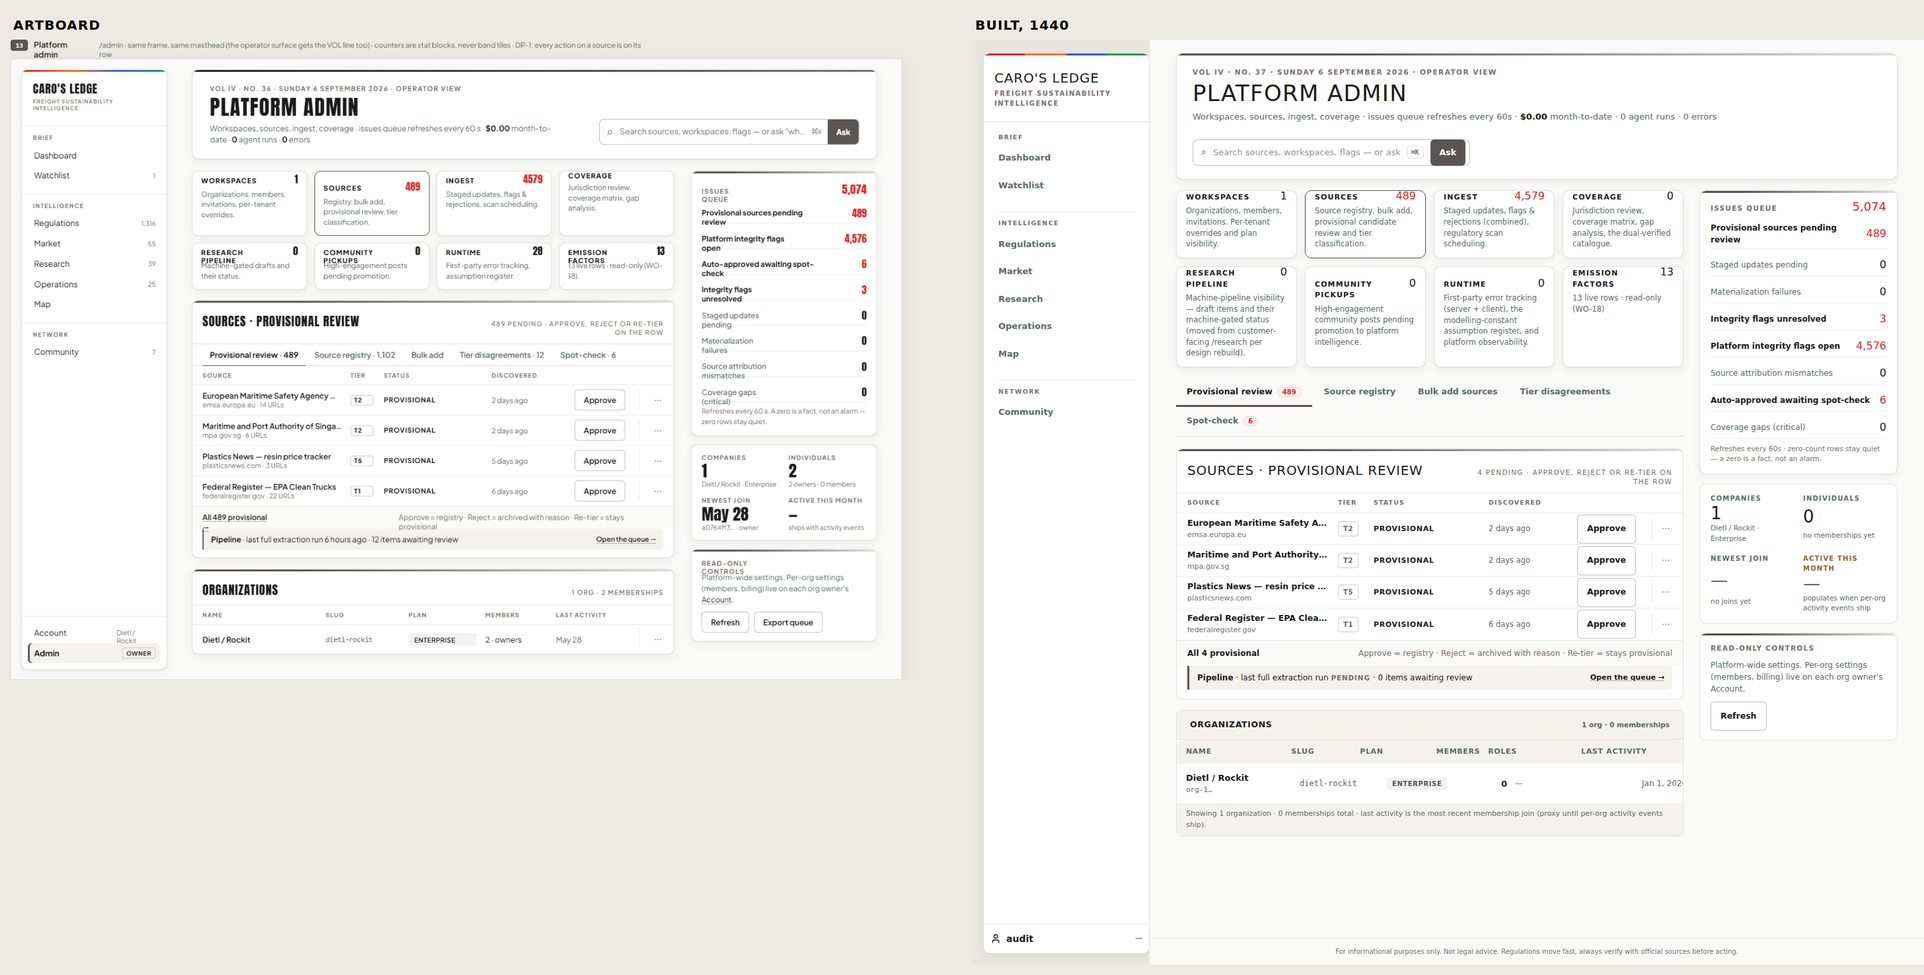
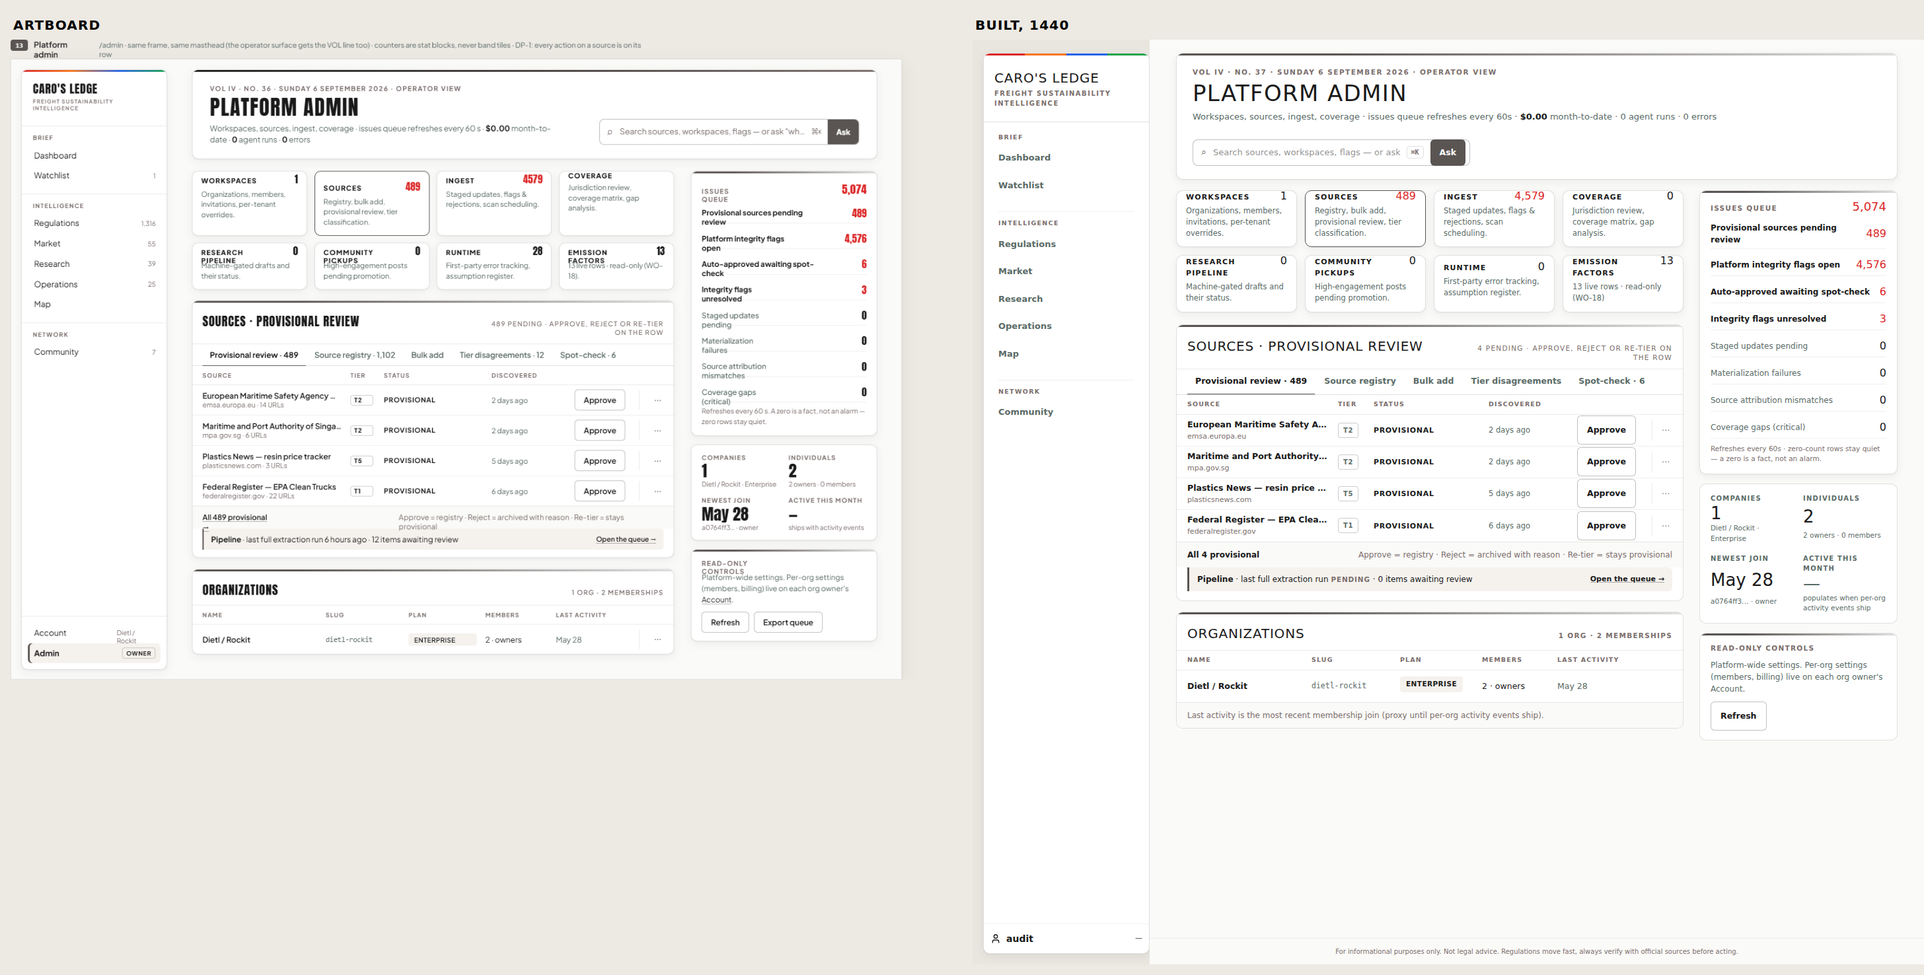
docs(admin60): side-by-sides, DEVIATION-LOG and session-log for artboards 13 and 14
Regenerated compose-13-admin.png and compose-14-account.png from this
lane's code and read both against their artboards. DEVIATION-LOG gains one
section carrying every decision and the data path checked behind it;
session-log gains the before/after region tables, the harness defect, the
gate lines and the UX compliance block.

Claude-Session: https://claude.ai/code/session_011PrexRRmd9zJ3cBeMDJw94
(cherry picked from commit e3f69dd1b1d16882ad0ba968db3ed14513dfb246)
(cherry picked from commit cee4a1bc298c5ffd6118958374bf6cd62e8a3118)

diff --git a/docs/design/handoff-2026-09-06/DEVIATION-LOG.md b/docs/design/handoff-2026-09-06/DEVIATION-LOG.md
@@ -354,3 +354,29 @@ logged here as a data-driven or deferred difference with the data path that was 
 | 2026-09-08 | Gate repaired - F36 no longer flags a TIMEZONE LOOKUP as an unpinned date format | [CONFIRMED, negative-tested this session] dc.html p15's time field reads "08:00 · Europe/London": the zone is the reader's own, which only the browser knows, so `BriefingScheduleSection` resolves it after mount with `Intl.DateTimeFormat().resolvedOptions().timeZone`. F36's regex matched `Intl.DateTimeFormat(` and reported it as an unpinned format call. It is not one: it returns an IANA zone NAME, produces no date string, and pinning `timeZone` on it would make it echo the pinned value back and destroy its only purpose. Fixed in the rule, narrowly (the very next token after the call must be `.resolvedOptions(`), with the attack in `F36-date-format-timezone-pin.test.mjs`: a real formatter, a formatter built then queried later, and both `toLocale*` calls must all still be caught. NOT added to `PRE_EXISTING_ALLOWLIST` - an allowlist entry would have been a claim of pre-existing debt about code written this session. | CLAUDE.md rule 15 (a guard is proven by attack); the gate was wrong, not the code. | lane settings60, 2026-09-08 |
 | 2026-09-08 | Settings (15) - 'Action' disclosed as known-safe in the settings smoke spec | The Alert bands control renders `BAND_ORDER`'s literal "Action", an exact-text collision with `HEADER_LITERALS`' §3 action-COLUMN word, so the rendering guard's placeholder-literal scan flagged it. Disclosed via `assertGuardClean`'s existing `known` parameter - the same carve-out `dashboard-brief-smoke.mjs`, `regulations-rows-smoke.mjs` and `map-smoke.mjs` already make for the identical word. Not a fabricated or omitted value. | Existing disclosed-carve-out convention (guard-assert.mjs's own header). | lane settings60, 2026-09-08 |
 | 2026-09-08 | Settings (15) - remaining artboard differences, all data-driven, none fixable without inventing | Listed for completeness after the side-by-side read: the collapsed twelve sector chips are the app's own first twelve rather than the artboard's twelve sample labels (fixture/corpus); the Save schedule button renders disabled until the form is dirty where the artboard draws it filled (state, not geometry); the time field shows the browser's own locale rendering ("08:00 AM" plus its clock glyph) and the sandbox's zone (UTC) where the artboard shows "08:00 · Europe/London"; the merged Account tab row still carries no live counts (Members · 2 / Sector profile · 6 / Jurisdictions · 30), the open item logged by lane compose-other on 2026-09-08 and still needing a shared count-fetch both /profile and /settings call. | Data and state, not composition. | lane settings60, 2026-09-08 - next: the tab-row counts remain the one named open item on this page. |
+
+## lane admin60, 2026-09-08, artboards 13 (/admin) and 14 (/account)
+
+Closes the eight differences Addendum 86 postscript 14 listed against these two artboards. Every row
+below is [CONFIRMED, measured this session] against the artboard PNG and dc.html p13/p14, and every
+one has a compose-spec row so the design audit measures it from now on.
+
+| Date | Page | Deviation | Reason | Who ruled |
+|---|---|---|---|---|
+| 2026-09-08 | Admin (13), sub-tab row | [CONFIRMED] The Sources sub-tab row now sits INSIDE the "SOURCES · PROVISIONAL REVIEW" card head, on ONE line at 1440 (measured: the row is 38.75px, one line of 12.5px tabs), as dc.html p13 draws it. Shared `TabRow` gained two additive props: `placement="card-head"` (gap 2, the card's own 16px inset, `flex-wrap: nowrap`) and `semantics="tablist"` (role=tablist / role=tab / aria-selected, the semantics the Admin sub-nav always had). The page passes that ONE row into `ProvisionalReviewTable`'s new `headTabs` slot when the provisional card is the section body, and renders no row above the card in that state; every other section, which has no artboard, keeps the page-level row. Counts render as the artboard's inline "· N" text, not the red pill the build used to draw, which is also what makes the five tabs fit one line. The tab "Bulk add sources" is renamed to the artboard's "Bulk add". | The artboard is the spec, and it wraps nothing at 1440. Extending the shared part additively rather than forking a second tab row. | lane admin60, 2026-09-08 |
+| 2026-09-08 | Admin (13), ORGANIZATIONS clipping | [CONFIRMED] The LAST ACTIVITY value was clipped at the card's right edge because the header grid and the row grid were two DIFFERENT track lists (`minmax(0,…)` floors in the header, `minmax(160px,…)`/`minmax(180px,…)` in the rows), giving the rows a ~858px hard minimum inside a ~780px content column. The card is rebuilt on the shared `RowTable`, whose header and rows are derived from ONE `columns` array, with dc.html p13's own track list `1fr 120px 110px 100px 120px 44px`. A `boundsCheck` row in compose-13's spec now measures every cell's box against its row and its siblings. | Same containment rule ListRow carries; one track list is the fix, not a wider column. | lane admin60, 2026-09-08 |
+| 2026-09-08 | Admin (13), ORGANIZATIONS ROLES column | [CONFIRMED] The extra ROLES column the artboard does not draw is removed. Its data is not dropped: the artboard's own MEMBERS cell reads "2 · owners", the count and the role summary in one cell, and that is what the cell renders now (`membersCellLabel`, unit-tested). A forbid row keeps the column from returning. | The data is shown elsewhere on the same row, so the column goes rather than moving under R7. | lane admin60, 2026-09-08 |
+| 2026-09-08 | Admin (13), ORGANIZATIONS row ⋯ | [CONFIRMED] The artboard draws a trailing ⋯ glyph on the org row. There is no per-org row action anywhere in the app (per-org settings live on that org owner's own Account, which the rail card already states), so the 44px column is held open and left EMPTY rather than drawn as a control that does nothing. | Ruling 1.1: a dead control is a defect. | lane admin60, 2026-09-08 |
+| 2026-09-08 | Admin (13), READ-ONLY CONTROLS "Export queue" | [CONFIRMED, re-checked this session] Grepped `src/app/api` and `src/lib` for a queue-export function (`export`, `csv`, `exportQueue`, `export-queue`, `downloadCsv`, `toCsv`): the only hits are `bulk-import`'s CSV *parser* and unrelated `parseCsvFilter` query-string helpers. No queue-export endpoint exists, so the artboard's second button is NOT built; Refresh, which is real, stands alone. A forbid row in compose-13's spec keeps a dead one from appearing. | Ruling 1.1 and this lane's own instruction: build it only if the function exists. | lane admin60, 2026-09-08 |
+| 2026-09-08 | Admin (13), stat tile sub-lines and ISSUES QUEUE order | [CONFIRMED] The eight stat tiles carried longer engineering prose than the artboard's own sub-lines; they now carry dc.html p13's strings verbatim. The ISSUES QUEUE rail rendered its eight rows in the store's order, not the artboard's; they are now in the artboard's order (provisional, platform integrity flags, auto-approved spot-check, integrity flags, then the four quiet rows), a fixed order, never a sort, so a changing count cannot reorder the list under the operator's eye. | Exact strings, exact order (the method's step 3). | lane admin60, 2026-09-08 |
+| 2026-09-08 | Admin (13), `PlateCard` head | [CONFIRMED] The admin section card's head was a 12.5px bold uppercase plate header on a raised fill, matching no artboard head on any page; it is now dc.html p13's own: the graduated `SectionRule` cap, an Anton 20px uppercase title and a 10.5px / .12em small-caps right meta on one baseline row, over the card's own white. | Ruling 5.1 plus the artboard's literal head. | lane admin60, 2026-09-08 |
+| 2026-09-08 | Account (14), invite row | [CONFIRMED] The invite row gained the artboard's "INVITE BY EMAIL" field label, its `name@company.com` placeholder and its "Send invite" button, laid out 1fr/auto to the field baseline inside the card's 16px gutter. | dc.html p14, verbatim. | lane admin60, 2026-09-08 |
+| 2026-09-08 | Account (14), member list becomes the artboard's table | [CONFIRMED] The member list is now the shared `RowTable` under MEMBER / JOINED / ROLE headers on dc.html p14's own track list `1fr 120px 150px 44px`, with the trailing 44px overflow cell. Remove and Ban move off the row (they were text buttons) into that overflow menu; the menu's own styling is left exactly as `RowTable` ships it. The row's second line is the artboard's "you · <email>" on the reader's own row (the email is passed down from the page, which already has it, `/api/orgs/[id]/members` returns a resolved `display_name` and no email column) and nothing on anyone else's, rather than repeating the ROLE column. | R7's precedent for row-level secondary actions; "overlays: unchanged and undesigned, do not invent" applies to the overlay's styling, not to hiding real writes. | lane admin60, 2026-09-08 |
+| 2026-09-08 | Account (14), the "3 of 5 seats used / Manage seats" foot strip | [CONFIRMED, re-checked this session] Grepped `src/` and `supabase/migrations` for `seats`, `seat_limit`, `max_members`, `member_limit`: nothing. No seat-limit column exists on `organizations` or anywhere else, and no `/api/orgs/**` payload carries one. The strip IS built (it is a data display, and the artboard draws it) as a neutral `StateNote`, with the workspace and role clauses live and the seat clause rendering the Absence convention, reason "connect data". The "Manage seats" link is NOT drawn: there is no seats route, so it would be a dead control. | This lane's DEFAULTS: a drawn region whose data does not exist renders the Absence convention if it is a data display; a control with no function behind it is not built (ruling 1.1). | lane admin60, 2026-09-08 |
+| 2026-09-08 | Account (14), ORGANIZATION's extra table (ruling R7) | [CONFIRMED] The org identity table (name / slug / plan / members / created) and the workspace-scope footnote sat ABOVE the two fields, where the artboard has nothing. They are neither deleted nor restyled: they move BELOW the designed region as a card-foot disclosure ("Workspace record"), which is where R7's own precedents put an undesigned block that occupies a designed region's place. The card body is now dc.html p14's own single row: ORGANIZATION NAME, SLUG, Save. | Ruling R7. | lane admin60, 2026-09-08 |
+| 2026-09-08 | Account (14), rail stat blocks | [CONFIRMED] The rail's four stat blocks rendered as four separately bordered cards; dc.html p14 groups all four in ONE bordered card with a 2x2 grid inside and no per-tile border, the same treatment artboard 13's rail gives its Companies / Individuals / Newest join / Active-this-month block. Rebuilt as one card of four shared `StatBlock`s; the page-local `StatTileCard` chrome, whose only caller this was, is deleted rather than left dormant (rule 13). | dc.html p14. | lane admin60, 2026-09-08 |
+| 2026-09-08 | Shared part, `AccountCard` (Account + Settings) | [CONFIRMED] Two artboard-driven corrections to the shared card: the head meta is 10.5px / .12em small caps (it rendered in sentence case at the same size, which read as body copy), and the head sits on the card's own white rather than a raised plate fill. Both are what dc.html p14 and p15 draw. | The artboard is the spec; fixing it in the shared part rather than per page. | lane admin60, 2026-09-08 |
+| 2026-09-08 | Shared part, `RowTable` cell containment | [CONFIRMED] Only the FIRST cell wrapper carried `min-width: 0`; every cell does now, and each carries a `cl-rowtable-cell` / `cl-rowtable-headcell` class so the design audit's bounds check can address it. A grid item's default `min-width: auto` lets its content push its track past its declared size, which is the mechanism behind the clipped LAST ACTIVITY value. | Root-cause fix in the shared part, not in the one page that showed it. | lane admin60, 2026-09-08 |
+| 2026-09-08 | Harness fix, `run-audit.mjs` did not load the compiled stylesheet | [CONFIRMED, proven by attack] The eight AppShell page-composition mounts declare `needsCompiledCss`, and `capture-compose-page.mjs` honours it, but `run-audit.mjs` never did: those specs were measured against a page with NO stylesheet, so every `var(--fs-*)` fell back to the 16px default. Found when an ORGANIZATIONS bounds row reported a header cell escaping its 30px strip, real at 16px, impossible at the token's 9.5px. The audit now injects the same compiled CSS the capture does. All 60 specs stay green with it, so no existing row depended on the unstyled render. | A measurement of a page the product never renders is not a measurement. CLAUDE.md rule 14: the finding was a harness defect, and saying so is the point. | lane admin60, 2026-09-08 |
+| 2026-09-08 | Fixtures, compose-admin memberships and compose-account member count | [CONFIRMED] `compose-admin` seeded one org and ZERO memberships, so ORGANIZATIONS rendered a bare 0 and the artboard's "2 · owners" cell could not be measured at all; it now seeds dc.html p13's own two owner memberships. `compose-account`'s supabase stub answered the `org_memberships` head-count with 12 while its mocked `/api/orgs/org-1/members` returned 2, so one capture showed "Members & roles · 12" beside a card reading "2 members"; the stub answers 2. Both are fixture corrections, not product changes: in production both numbers read the same table under the same RLS. | A fixture that contradicts itself makes a real inconsistency unreadable. | lane admin60, 2026-09-08 |
+| 2026-09-08 | Admin (13), remaining artboard differences NOT closed | [CONFIRMED] Two, both already logged by lane comp-admin and re-confirmed here: the foot's "All 489 provisional" is text, not a link (the built card IS the whole queue, so a link to a fuller list would be a dead control, ruling 1.1), and the COVERAGE tile renders its live gap count where the artboard's tile shows no numeral at all (every other tile on the artboard has one; the omission reads as a mock artifact, and omitting a real count would be worse). | Recorded so a later pass does not re-diagnose them. | lane admin60, 2026-09-08 |

diff --git a/docs/ops/session-log.md b/docs/ops/session-log.md
@@ -12904,3 +12904,88 @@ unchanged); `next build --webpack` **exit 0** with no `.env.local`.
 and `compose-15-settings-built.png`. No auth bypass was needed: the composition mount renders the
 real `SettingsPage` inside `AppShell` through the audit harness, so nothing temporary was added to
 `src/proxy.ts` or any page file, and `grep -rn "UI_SCREENSHOT_BYPASS" fsi-app/src/` returns nothing.
+
+## Addendum 86, postscript 15: lane admin60, artboards 13 (/admin) and 14 (/account) composed to the drawing (2026-09-08, lane ADMIN60)
+
+Train 60, page-composition lane. The eight items Addendum 86 postscript 14 listed under "13 Admin"
+and "14 Account" are closed; every one of them now has a compose-spec row, so the design audit
+measures it from here on rather than a later eye catching it again.
+
+**The region tables.** Read the artboard PNG and the dc.html section (`id="p13"`, `id="p14"`) first,
+then the same page mounted with populated fixture data, region by region. The rows that differed:
+
+| # | Region | Before | After |
+|---|---|---|---|
+| 13.1 | Sources sub-tab row | above the card, WRAPPED to two lines at 1440, counts in a red pill, tab "Bulk add sources" | inside the card head, ONE line (38.75px measured), counts as the artboard's inline "· N", tab "Bulk add" |
+| 13.2 | ORGANIZATIONS grid | header and rows on DIFFERENT track lists, row minimum ~858px in a ~780px column, LAST ACTIVITY clipped at the card edge | one track list, dc.html p13's own `1fr 120px 110px 100px 120px 44px`, every cell contained (bounds-checked) |
+| 13.3 | ORGANIZATIONS columns | six, including a ROLES column the artboard does not draw | five, the artboard's, with the roles data in its MEMBERS cell: "2 · owners" |
+| 13.4 | READ-ONLY CONTROLS | Refresh only | Refresh only, deliberately: no queue-export function exists (re-grepped), so Export queue stays unbuilt and a forbid row keeps a dead one out |
+| 13.5 | Stat tile sub-lines / ISSUES QUEUE order / PlateCard head | engineering prose, store order, a 12.5px bold plate header | the artboard's strings verbatim, the artboard's order, the artboard's Anton-20 head over a SectionRule |
+| 14.1 | Invite row | unlabelled, "Email address", "Invite" | "INVITE BY EMAIL", "name@company.com", "Send invite" |
+| 14.2 | Member list | flex rows, no headers, Remove/Ban as text buttons | the artboard's RowTable, MEMBER/JOINED/ROLE headers, 44px overflow cell holding Remove and Ban |
+| 14.3 | Seat foot strip | absent | built as a neutral StateNote, seat clause in the Absence convention ("connect data"), no Manage seats link |
+| 14.4 | ORGANIZATION | an identity table above the two fields, where the artboard has nothing | the artboard's single field row; the table moved below as a card-foot disclosure (R7) |
+| 14.5 | Rail stat blocks | four separately bordered cards | ONE card, 2x2 inside, as drawn |
+
+**Shared parts extended, additively, and named because they are shared.** `TabRow` gained
+`placement="card-head"` and `semantics="tablist"`, both defaulting to the previous behaviour.
+`RowTable` gained `min-width: 0` on EVERY cell (only the first had it) plus per-cell classes the
+audit's bounds check addresses. `ProvisionalReviewTable` and `SourceHealthDashboard` gained a
+`headTabs` slot. `AccountCard`, shared with Settings, took two artboard corrections: a small-caps
+head meta and no raised plate behind the head. `WorkspacesUsageRow`'s figures are all ink now.
+
+**Two things decided rather than asked, both logged with the data path checked.** Export queue and
+Manage seats are NOT built: no queue-export function exists under `src/app/api` or `src/lib`, and no
+`seats` / `seat_limit` / `max_members` column exists in `src/` or `supabase/migrations`. A region the
+artboard draws whose data does not exist renders the Absence convention when it is a data display
+(the seat strip does), and is not built at all when it is a control with no function behind it
+(ruling 1.1). The ORGANIZATIONS row's ⋯ glyph is the same case: the 44px column is held open at the
+artboard's width and left empty.
+
+**A harness defect found by measuring, not by reading.** `run-audit.mjs` never injected the compiled
+stylesheet, though the eight AppShell page-composition mounts declare `needsCompiledCss` and
+`capture-compose-page.mjs` honours it. Those eight specs were being measured against a page with NO
+stylesheet: every `var(--fs-*)` fell back to 16px. It surfaced as a bounds row claiming an
+ORGANIZATIONS header cell escaped its 30px strip, which is true at 16px and impossible at the token's
+9.5px, a harness defect, not a product defect, and saying which is the point (rule 14). The audit
+injects the same CSS the capture does now, and all 60 specs stay green with it, which is the evidence
+that no existing row depended on the unstyled render.
+
+**Fixtures.** `compose-admin` seeded one org and zero memberships, so ORGANIZATIONS rendered a bare 0
+and the artboard's role summary could not be measured at all; it seeds dc.html p13's own two owner
+memberships now. `compose-account`'s supabase stub answered the `org_memberships` head-count with 12
+while its mocked members route returned 2, so a capture showed "Members & roles · 12" beside a card
+reading "2 members". Both are fixture corrections; in production both numbers read one table under
+one RLS policy.
+
+**What still differs from artboards 13 and 14, listed.** Admin: the foot's "All 489 provisional" is
+text, not a link (the built card IS the whole queue, so the link would be dead, ruling 1.1); the
+COVERAGE tile renders its live gap count where the artboard's tile carries no numeral at all. Account:
+the "Workspace record" R7 disclosure the artboard has no region for; the masthead date and the stat
+figures are the live/fixture values, not the artboard's samples. Nothing geometric or typographic
+remains open on either page.
+
+**UX compliance**: this lane touched `.tsx` under `fsi-app/src`, `TabRow.tsx`, `RowTable.tsx`,
+`AdminDashboard.tsx`, `OrganizationsTable.tsx`, `AdminIssuesRail.tsx`, `WorkspacesUsageRow.tsx`,
+`ProvisionalReviewTable.tsx`, `SourceHealthDashboard.tsx`, `AccountPrimitives.tsx`,
+`MembersPanel.tsx`, `OrganizationPanel.tsx`, `UserProfilePage.tsx`. Every interactive element it
+introduced or moved keeps a 44px minimum box: the member row's overflow control is the same 44x44
+`RowTableOverflow` the provisional table already uses (asserted at 44x44 in compose-14), its menu
+items are `min-height: 44`, the role `<select>` moved into the ROLE column at `min-height: 44`, and
+the R7 disclosure's summary is a 44px row. Two controls were REMOVED rather than restyled (Remove and
+Ban as bare text buttons, which were 11px targets), and two were not built at all because nothing
+sits behind them. No control shrank. The sub-tab row's targets are unchanged in size and only moved.
+Rendering guard PASS with no new failures, including law-2 targets at 375 and 1280 and the bounds
+assertions; the design audit's own bounds checks over both tables are new and green.
+
+**Gates** (this container; the coordinator lands): design audit 60 specs, **1019 checks, 1019 MATCH**,
+0 MISMATCH / 0 NOT BUILT / 0 NOT IN SPEC; `tsc --noEmit` clean; fitness runner 33/33, **0
+violations**; rendering guard **PASS** (11 fixtures, 431 checks, 7 SM + 12 UX smoke specs, 83 + 216
+checks); the CI npmtest glob **818/818 PASS** (798 before, plus this lane's three new files);
+`run-test-suite.sh` 5917 tests, 5912 pass, **0 fail**, 5 skipped, exit 0 (the known "kill switch ON
+but no DB creds" failure did not reproduce); `next build --webpack` **exit 0** with no `.env.local`.
+
+**Evidence.** `docs/design/handoff-2026-09-06/built/compose-13-admin.png` and
+`compose-14-account.png`, both regenerated from this lane's code by
+`capture-compose-page.mjs` + `compose-composite.mjs` and read against their artboards by eye before
+this was written.
